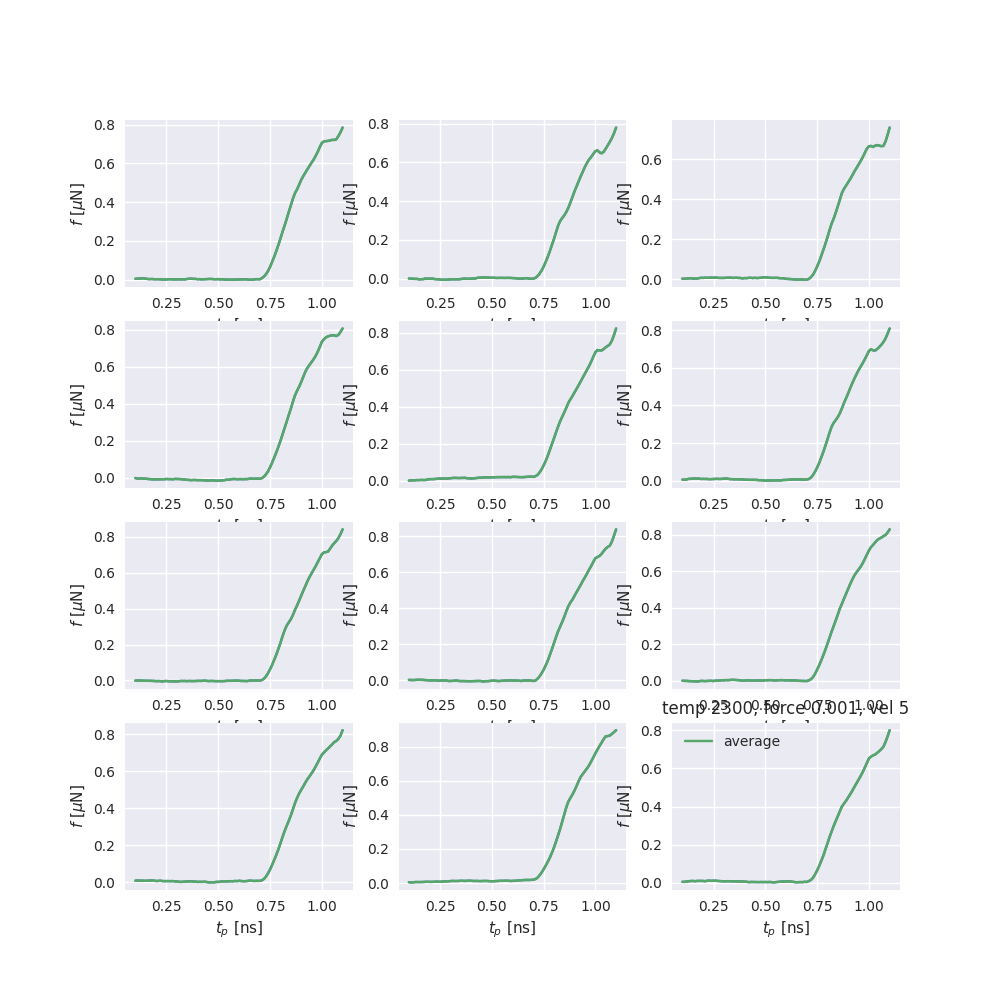
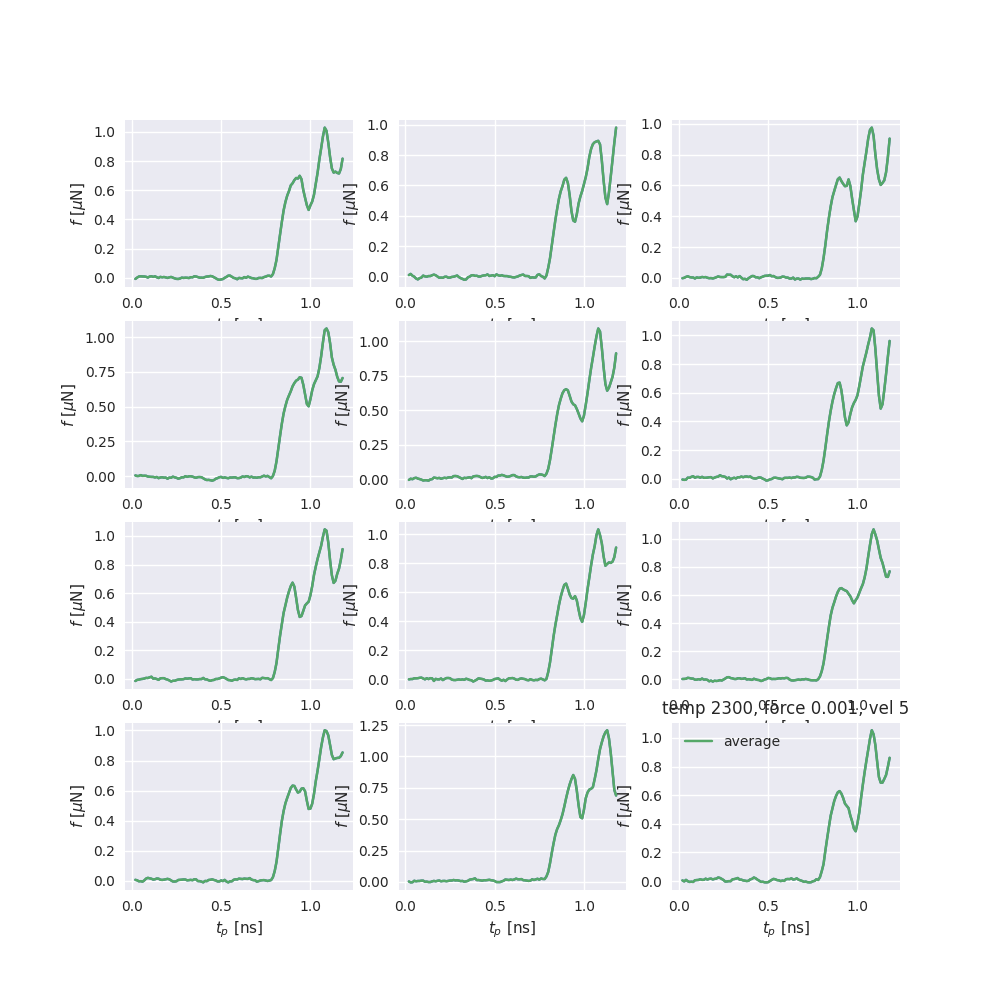
trying again

diff --git a/python/post/get_load_curves.py b/python/post/get_load_curves.py
@@ -92,4 +92,4 @@ if __name__ == '__main__':
             outfile_lc = f'../../txt/load_curves/production/load_curves_temp{temp}_vel{vel}_force{force}_asp{asperities}_initnum{initnum}_seed{seed}_errgrid4_4.txt'
             outfile_ms = f'../../txt/max_static/production/max_static_temp{temp}_vel{vel}_force{force}_asp{asperities}_initnum{initnum}_seed{seed}_errgrid4_4.txt'
             print(outfile_lc)
-            extract_load_curves(logfile, None, 0, window = 5000, outfile_load_curves = outfile_lc, outfile_max_static = outfile_ms)
+            extract_load_curves(logfile, None, 0, window = 1000, outfile_load_curves = outfile_lc, outfile_max_static = outfile_ms)
